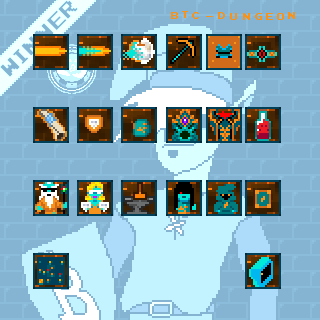
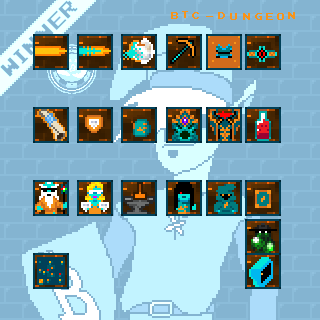
Added "Echo Warden" and did some controller tweaks
Added "Echo Warden" and did some controller tweaks. Soul Resonance is a hidden progression mechanic that builds up passively as you descend floors. (Spawning Echo Warden when ready and if needed)

Changed region(s): [[0.75, 0.6875, 0.875, 0.8125]]

diff --git a/index.html b/index.html
@@ -204,6 +204,9 @@
     scrollbar-width: none; /* Firefox */
     -ms-overflow-style: none; /* IE and Edge */
 }
+#battle-log textarea:focus {
+    outline: none !important;
+}
 #inventory { 
     position: absolute;
     top: 10px;
@@ -803,10 +806,11 @@ button:hover {
     <span id="diamonds" style="display: none;">0</span><br> <!-- moved to soul terminal -->
     <span id="perfectlyCutDiamonds" style="display: none;">0</span><br> <!-- moved to soul terminal -->
     <span id="runes" style="display: none;">None</span><br> <!-- moved to soul terminal -->
+    <span id="resonance" style="display: none;">0%</span><br>
 </div>
         </div>
 <div id="battle-log">
-    <textarea id="battle-events" readonly>Battle Log:</textarea>
+    <textarea id="battle-events" readonly tabindex="-1">Battle Log:</textarea>
 </div>
 
 <!-- Soul Terminal Overlay -->
@@ -1532,6 +1536,10 @@ let cachedLeaderboard = null; // Store fetched leaderboard
 let whaleHashIds = ['Whale Transactions:'], battleLog = [], killsLog = [];
 let satsEarned = {Shrimp: 0, Crab: 0, Squid: 0, Dolphin: 0, Shark: 0, Whale: 0};
 let kills = {Shrimp: 0, Crab: 0, Squid: 0, Dolphin: 0, Shark: 0, Whale: 0};
+let soulResonance = 0; // 0-100%, +1 per floor, maxed triggers resurrection
+let resonanceTriggeredThisRun = false; // One-time per run
+let wardenFlashStart = 0; // Timestamp for 500ms invert flash
+let echoWardenPos = null; // Track warden position for draw
 let satoshiDrops = [];
 let runeDrops = []; // Array to store rune drops with positions and letters
 let scrollDrops = []; // Array to store scroll drops with positions
@@ -1772,6 +1780,9 @@ types.forEach(t => {
 	assets.hooded_heirloom.src = 'hooded_heirloom.png';
 assets.cursed_ring = new Image(),
 assets.cursed_ring.src = 'cursed_ring.png';
+assets.echo_warden = new Image();
+assets.echo_warden.src = 'ἀρχάγγελος.png';
+assets.echo_warden.onerror = () => console.error('Failed to load echo_warden.png');
 // Unique monster reveal image
 assets.unique_monster_img = new Image();
 assets.unique_monster_img.src = 'unique_monster.png';
@@ -2514,6 +2525,13 @@ function initMap() {
             blacksmithPos = null;
             waypointPos = null;
             exit = null; // Prevent stairs and related enemy spawning
+            echoWardenPos = null; // Clear warden on new floor
+            wardenFlashStart = 0; // Clear flash on new floor
+                for (let yy = 0; yy < H; yy++) {
+                    for (let xx = 0; xx < W; xx++) {
+                        if (map[yy][xx] === 24) map[yy][xx] = 0; // Clear warden tile
+                    }
+                }
 
             dpadButtons = document.querySelectorAll('#dpad button');
             actionsButtons = document.querySelectorAll('#actions button');
@@ -3185,6 +3203,7 @@ needsRedraw = true;
 
 // Modified updatePlayerState to ensure immortality works correctly
 function updatePlayerState() {
+if (gameOver) return; // Prevent spam calls post-death
 if (p.hp <= 36 && p.hasDiamondArmor) {  // Tie to <= 36 HP
     p.hasDiamondArmor = false;
     p.hasArmor = true;
@@ -3246,6 +3265,7 @@ if (p.hp <= 36 && p.hasDiamondArmor) {  // Tie to <= 36 HP
     document.getElementById('pickaxes').textContent = p.pickaxes;
     document.getElementById('diamonds').textContent = diamonds;
     document.getElementById('perfectlyCutDiamonds').textContent = p.perfectlyCutDiamonds;
+    document.getElementById('resonance').textContent = `${soulResonance}%`;
     
     // Add soul items to display
     if (p.inSoulTerminal) {
@@ -3271,6 +3291,59 @@ if (p.hp <= 36 && p.hasDiamondArmor) {  // Tie to <= 36 HP
         const elements = ['Fire', 'Lightning', 'Cold', 'Poison'];
         p.elementImmunity = elements[Math.floor(Math.random() * elements.length)];
         logBattleEvent(`Floor ${floor} - Cursed Ring shattered! HP unchanged at ${p.hp}/${p.maxHP}. Gained ${p.elementImmunity} immunity.`);
+    }
+
+    // Centralized death check (immortal + resonance + normal)
+    if (p.hp <= 0 && !gameOver) {
+        if (p.immortal) {
+            p.hp = 1;
+            logBattleEvent(`Floor ${floor} - HODL immortality prevents death! HP set to 1`);
+        } else if (soulResonance >= 100 && !resonanceTriggeredThisRun) {
+            // Resonance Surge: One-time resurrection
+            resonanceTriggeredThisRun = true;
+            soulResonance = 0; // Consume meter
+            p.hp = 100;
+            p.hasArmor = true; // Leather armor
+            p.maxHP = 36; // Leather max
+            p.soulStormCharges = 256;
+            // Clear all enemies (with drops, like RIP)
+            enemies.forEach(enemy => {
+                kills[enemy.type.name]++;
+                if (enemy.type.name !== 'Cursed Trader' && !enemy.uniqueName) {
+                    // Drop sats (simplified)
+                    if (map[enemy.y][enemy.x] === 0) {
+                        map[enemy.y][enemy.x] = 3;
+                        satoshiDrops.push({x: enemy.x, y: enemy.y, sats: enemy.sats, type: enemy.type.name});
+                    }
+                }
+                handleUniqueMonsterReward(enemy); // Handle uniques
+            });
+            enemies = []; // Wipe enemies
+        // Place Echo Warden directly on player's death spot
+        const wx = p.x;
+        const wy = p.y;
+        echoWardenPos = {x: wx, y: wy};
+        map[wy][wx] = 24; // New tile type for warden
+            // Effects
+            playWebAudioSound(sounds.rune); // Rune sound
+            logBattleEvent(`Floor ${floor} - Resonance Surge! Echo Warden descends—enemies vanquished, HP restored to 100, leather armor granted, soul charges maxed.`);
+            updateSatsDisplay();
+            needsRedraw = true;
+            // Trigger 500ms invert flash on warden entry
+            wardenFlashStart = Date.now();
+                    gameOver = false; // Force reset if spell/attack overrode
+        console.log('DEBUG: Post-surge force - HP:', p.hp, 'gameOver:', gameOver); // Remove after test
+        } else {
+            // Normal death
+            p.hp = 0;
+            diamonds = 0;
+            logBattleEvent(`Floor ${floor} - Hero Fell! Reached Floor ${floor}`);
+            gameOver = true; // Centralized set
+            updatePlayerState(); // Run death/resonance check
+            // 2s input lock
+            inputBlocked = true;
+            setTimeout(() => { inputBlocked = false; }, 1000);
+        }
     }
 
     needsRedraw = true;
@@ -4027,7 +4100,7 @@ if (map[ny][nx] === 6 && !inHideout) {
                         diamonds = 0;                // ← reset diamonds
                         updatePlayerState();          // ← update display
                         logBattleEvent(`Floor ${floor} - Hero Fell! Reached Floor ${floor}`);
-                        gameOver = true;
+                        updatePlayerState(); // Run death/resonance check
                     }
                 }
             }
@@ -4050,7 +4123,7 @@ if (map[ny][nx] === 6 && !inHideout) {
                         diamonds = 0;
                         updatePlayerState();
                         logBattleEvent(`Floor ${floor} - Hero Fell! Reached Floor ${floor}`);
-                        gameOver = true;
+                        updatePlayerState(); // Run death/resonance check
                     }
                 }
             }
@@ -4061,7 +4134,7 @@ if (map[ny][nx] === 6 && !inHideout) {
                     p.hp = 0;
                     logBattleEvent(`Floor ${floor} - Fell into Hole: Hero Fell! Reached Floor ${floor}`);
                     playWebAudioSound(sounds.hole);
-                    gameOver = true;
+                    updatePlayerState(); // Run death/resonance check
                 } else {
                     const oldHP = p.hp;
                     p.hp = Math.ceil(p.hp / 2);
@@ -4075,7 +4148,7 @@ if (map[ny][nx] === 6 && !inHideout) {
                         diamonds = 0;
                         updatePlayerState();
                         logBattleEvent(`Floor ${floor} - Hero Fell! Reached Floor ${floor}`);
-                        gameOver = true;
+                        updatePlayerState(); // Run centralized death/surge check
                     }
                 }
             }
@@ -4490,6 +4563,10 @@ if (exit && p.x === exit.x && p.y === exit.y && !inHideout) {
     initialSpawnDoneThisFloor = false;
     enemies = [];
     floor++;
+// Build soul resonance +2% per floor (every 50 floors, max 100%)
+soulResonance = Math.min(100, soulResonance + 2);
+resonanceTriggeredThisRun = false; // Reset for new run
+logBattleEvent(`Floor ${floor} - Soul Resonance: ${soulResonance}%`); // Optional subtle log
     p.shrineUsedThisFloor = false;  // Reset shrine flag for new floor
     initialWaveSpawned = false;
     waveActive = false;
@@ -5019,12 +5096,16 @@ if (p.hp <= 0 && p.immortal) {
     diamonds = 0;                // reset diamonds
     updatePlayerState();          // update inventory
     logBattleEvent(`Floor ${floor} - Hero Fell! Reached Floor ${floor}`);
-    gameOver = true;
+    updatePlayerState(); // Run centralized death/surge check
 }
 
 updatePlayerState(); // Check HP and armor state after damage
             }
     });
+    
+    // Single death/surge check after all enemy actions
+    updatePlayerState();
+    
 if (enemies.length === 0 && !exit && waveActive && !p.ripBlast && !ripBlastActive && !inHideout) {
     if (placeStairs()) {
         wave++;
@@ -5035,18 +5116,14 @@ if (enemies.length === 0 && !exit && waveActive && !p.ripBlast && !ripBlastActiv
         logBattleEvent(`Floor ${floor} - Wave ${wave} cleared, but stairs placement failed!`);
     }
 }
-
 }
 
 // Function to apply spell damage to player
 function applySpellDamage(x, y) {
-    // Check if player is standing on a dangerous area
     const dangerousArea = dangerousAreas.find(area => area.x === x && area.y === y);
-    
     if (dangerousArea) {
         let damage = 0;
         let damageType = "";
-        
         switch (dangerousArea.spellType) {
             case SPELL_TYPES.FIRE_WALL:
                 damage = 2;
@@ -5065,29 +5142,14 @@ function applySpellDamage(x, y) {
                 damageType = "Poison";
                 break;
         }
-        
-        // Check if player has immunity to this spell type
         if (p.elementImmunity === damageType || p.armorImmunity === damageType) {
             logBattleEvent(`Floor ${floor} - Immune to ${damageType} spell! No damage taken.`);
-            return; // Skip damage application
+        } else {
+            p.hp -= damage;
+            logBattleEvent(`Floor ${floor} - ${damageType} spell damage! ${damage} DMG`);
+            playWebAudioSound(sounds.hit);
         }
-        
-        p.hp -= damage;
-        logBattleEvent(`Floor ${floor} - ${damageType} spell damage! ${damage} DMG`);
-        playWebAudioSound(sounds.hit);
-        
-        if (p.hp <= 0 && p.immortal) {
-            p.hp = 1;
-            logBattleEvent(`Floor ${floor} - HODL immortality prevents death! HP set to 1`);
-        } else if (p.hp <= 0) {
-            p.hp = 0;
-            diamonds = 0;                // reset diamonds
-            updatePlayerState();          // update inventory
-            logBattleEvent(`Floor ${floor} - Hero Fell! Reached Floor ${floor}`);
-            gameOver = true;
-        }
-        
-        updatePlayerState();
+        updatePlayerState(); // Centralized: surge if eligible, no early gameOver
     }
 }
 
@@ -6414,6 +6476,7 @@ if (p.hasCursedRing) {
         }
     }
     addTerminalLineToContent(`Runes: ${displayRunes}`);
+    addTerminalLineToContent(`Soul Resonance: ${soulResonance}%`);
     addTerminalLineToContent('');
 //    addTerminalLineToContent('--- Audio Settings ---');
 //    addTerminalLineToContent(`Sound Volume: ${(soundVolume * 100).toFixed(0)}%`);
@@ -7220,6 +7283,8 @@ p.auraMoveCounter = 0; // Reset aura move counter
     diamonds = 0;
     p.hasArmor = true;
     p.armorImmunity = null; // Reset armor immunity on restart
+    soulResonance = 0;
+    wardenFlashStart = 0; // Clear flash on restart
     
     p.runes = [];
     runeDrops = runeDrops.filter(r => !r.specific);			// maybe
@@ -7434,6 +7499,16 @@ if (p.moving) {
     }
     c.fillStyle = splashActive ? '#F7931A' : '#000';
     c.fillRect(0, 0, W * S, H * S);
+    // Warden entry flash: Invert colors for 500ms
+if (wardenFlashStart > 0) {
+    const elapsed = Date.now() - wardenFlashStart;
+    if (elapsed < 500) {
+        c.filter = 'invert(1)'; // Quick dramatic invert
+    } else {
+        c.filter = 'none'; // Reset
+        wardenFlashStart = 0;
+    }
+}
     if (gameOver) {
         const gameOverCanvas = document.getElementById('game-over-canvas').getContext('2d');
         gameOverCanvas.clearRect(0, 0, 320, 320);
@@ -7576,6 +7651,9 @@ for (let y = 0; y < H; y++) for (let x = 0; x < W; x++) {
         }
         if (map[y][x] === 23) { // Cursed Ring
             c.drawImage(assets.cursed_ring, x * S, y * S, S, S);
+        }
+        if (map[y][x] === 24 && echoWardenPos && echoWardenPos.x === x && echoWardenPos.y === y) {
+            c.drawImage(assets.echo_warden, x * S, y * S, S, S);
         }
         // Draw stairs after portals to ensure proper visibility
         if (exit && exit.x === x && exit.y === y) {
@@ -8221,20 +8299,6 @@ if (p.moving && now - p.anim.lastFrameTime >= 50) {
         draw();
     }
     
-// Final death check (after all updates)
-if (p.hp <= 0 && !gameOver) {
-    if (p.immortal) {
-        p.hp = 1;
-        logBattleEvent(`Floor ${floor} - HODL immortality prevents death! HP set to 1`);
-    } else {
-        p.hp = 0;
-        diamonds = 0;                // reset diamonds
-        updatePlayerState();          // update inventory
-        logBattleEvent(`Floor ${floor} - Hero Fell! Reached Floor ${floor}`);
-        gameOver = true;
-    }
-}
-
     // Revert to unthrottled RAF for smooth interpolation; draw throttling is internal
     requestAnimationFrame(gameLoop);
 }
@@ -8826,7 +8890,7 @@ if (!splashActive && !gameOver && inputBlocked) {
     const nowTime = Date.now();
     if (buttons[3].pressed && !lastButtonsState[3] && nowTime - lastStartPressTime > DEBOUNCE_MS) {
         if (p.inSoulTerminal && p.soulTerminalActive) {
-            console.log('Gamepad Start: Exiting soul terminal'); // Debug log
+            //console.log('Gamepad Start: Exiting soul terminal'); // Debug log
             closeSoulTerminal();
         }
         lastStartPressTime = nowTime;
@@ -8852,7 +8916,7 @@ if (buttons[1].pressed && !lastButtonsState[1]) {
         // Normal gameplay B button action
         attack();
         lastMoveTime = nowTime; // Update lastMoveTime to maintain consistency with other actions
-    } else if (gameOver && gamepadIndex !== null) {
+    } else if (gameOver && gamepadIndex !== null && !inputBlocked) {  // ← Add !inputBlocked check here
         if (!gameOverBPressed) {
             if (!scoreSubmitted && floor >= 3) {
                 // Submit score if eligible
@@ -9225,6 +9289,10 @@ document.addEventListener('keydown', function (e) {
   if (['a', 'd', 'ArrowUp', 'ArrowDown', 'ArrowLeft', 'ArrowRight', ' ', 'Enter'].includes(e.key)) {
     handleMovement();
   }
+});
+// Prevent battle-log focus from gamepad/shoulder buttons
+document.getElementById('battle-events').addEventListener('focus', function() {
+    this.blur();
 });
     </script>
 </body>
